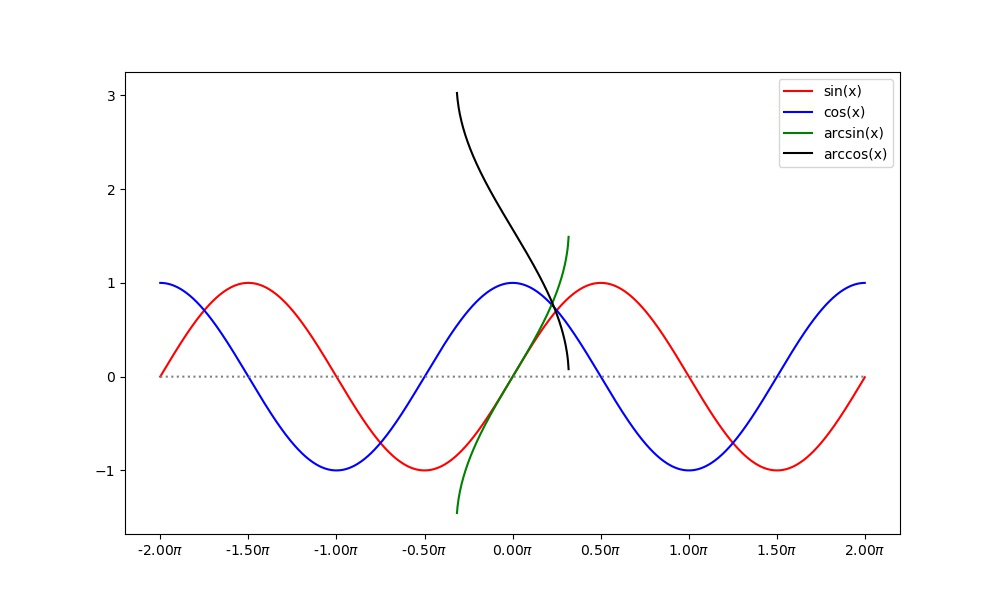
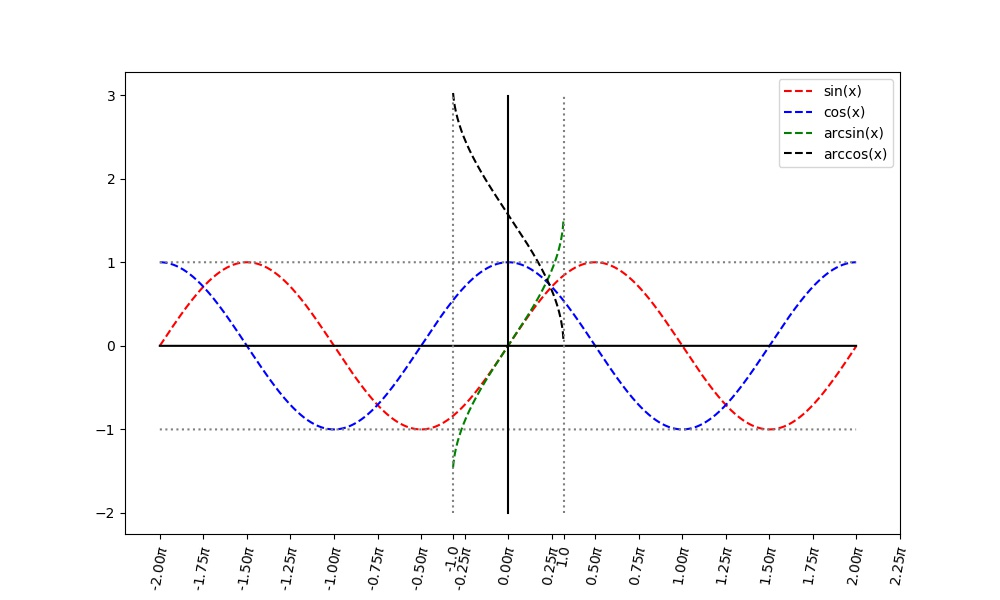
sin draw

diff --git a/draw_sin.py b/draw_sin.py
@@ -10,7 +10,6 @@ from common import plotcm
 
 import numpy as np
 import matplotlib.pyplot as plt
-from pylab import *
 
 # 多子图绘制
 fig, ax = plt.subplots(figsize=(10, 6))
@@ -27,18 +26,30 @@ y3 = np.arcsin(x)
 y4 = np.arccos(x)
 
 # 根据坐标画图
-ax.plot(x, y1, color='r', label='sin(x)')
-ax.plot(x, y2, color='b', label='cos(x)')
-ax.plot(x, y3, color='g', label='arcsin(x)')
-ax.plot(x, y4, color='black', label='arccos(x)')
+ax.plot(x, y1, '--', color='r', label='sin(x)')
+ax.plot(x, y2, '--', color='b', label='cos(x)')
+ax.plot(x, y3, '--', color='g', label='arcsin(x)')
+ax.plot(x, y4, '--', color='black', label='arccos(x)')
 
-# 绘制0轴线
-y0 = np.repeat(0, len(y2))
-ax.plot(x, y0, ':', color='gray')
+# 绘制水平线
+plotcm.draw_h_line(ax, -2 * np.pi, 2 * np.pi, 0.0, color='black', line_style='-')
+plotcm.draw_h_line(ax, -2 * np.pi, 2 * np.pi, 1.0, color='gray', line_style=':')
+plotcm.draw_h_line(ax, -2 * np.pi, 2 * np.pi, -1.0, color='gray', line_style=':')
+
+# 绘制Y轴0线
+plotcm.draw_v_line(ax, -2, 3, 0.0, color='black', line_style='-')
+plotcm.draw_v_line(ax, -2, 3, 1.0, color='gray', line_style=':')
+plotcm.draw_v_line(ax, -2, 3, -1.0, color='gray', line_style=':')
 
 # 标记PI单位
-vlist, tlist = plotcm.ticks_list_pi(-2, 2.5, 0.5)
-xticks(vlist, tlist)
+vlist, tlist = plotcm.ticks_list_pi(-2, 2.5, 0.25)
+vlist.append(-1)
+vlist.append(1)
+tlist.append('-1.0')
+tlist.append('1.0')
+
+# X轴：旋转50度
+plt.xticks(vlist, tlist, rotation=80)
 
 # 设置图例备注显示位置
 ax.legend(loc='best')

diff --git a/common/plotcm.py b/common/plotcm.py
@@ -67,3 +67,39 @@ def ticks_list_pi(start, end, step=0.5):
         data_list.append(val)
         txt_list.append(txt)
     return (data_list, txt_list)
+
+
+def draw_h_line(ax, start, end, val, color='gray', line_style='-'):
+    """
+    在坐标轴中指定范围，绘制水平线
+    @param ax: 绘画坐标轴
+    @param start: 开始值
+    @param end: 终止值
+    @param val: 水平值
+    @param color: 颜色
+    @param line_style: 样式
+    @:return 无
+    """
+
+    # 绘制Y轴0线
+    x = np.arange(start, end, 0.01)
+    y = np.repeat(val, len(x))
+    line, = ax.plot(x, y, line_style, color=color)
+
+
+def draw_v_line(ax, start, end, val, color='gray', line_style='-'):
+    """
+    在坐标轴中指定范围，绘制竖直线
+    @param ax: 绘画坐标轴
+    @param start: 开始值
+    @param end: 终止值
+    @param val: 竖直值
+    @param color: 颜色
+    @param line_style: 样式
+    @:return 无
+    """
+
+    # 绘制Y轴0线
+    y = np.arange(start, end, 0.01)
+    x = np.repeat(val, len(y))
+    line, = ax.plot(x, y, line_style, color=color)

diff --git a/RM_DRAW.md b/RM_DRAW.md
@@ -5,7 +5,6 @@
 ### 绘制三角函数波形图
 ![Image text](images/draw_sin_result.jpg)
 
-
 ## [draw_triangulation1.py](draw_triangulation1.py)
 ### 绘制同心三角网，对分隔点数，层数变化，生成对比图。
 ![Image text](images/draw_triangulation1_result.jpg)
